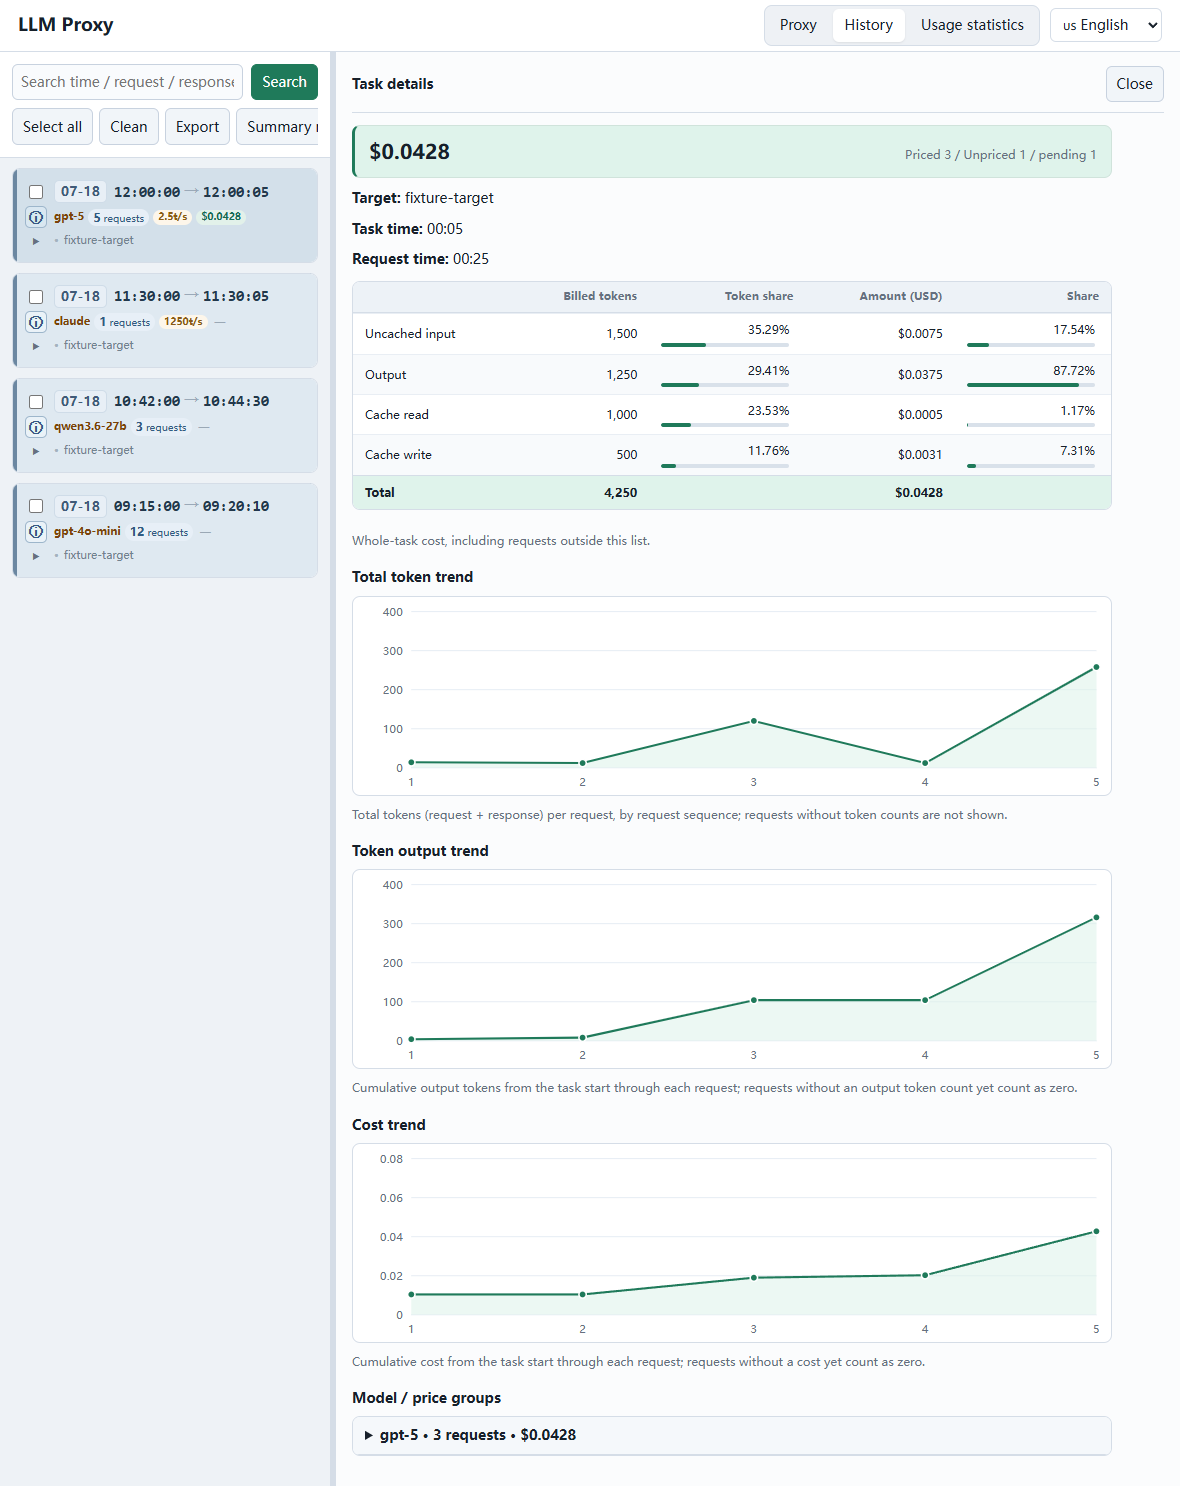
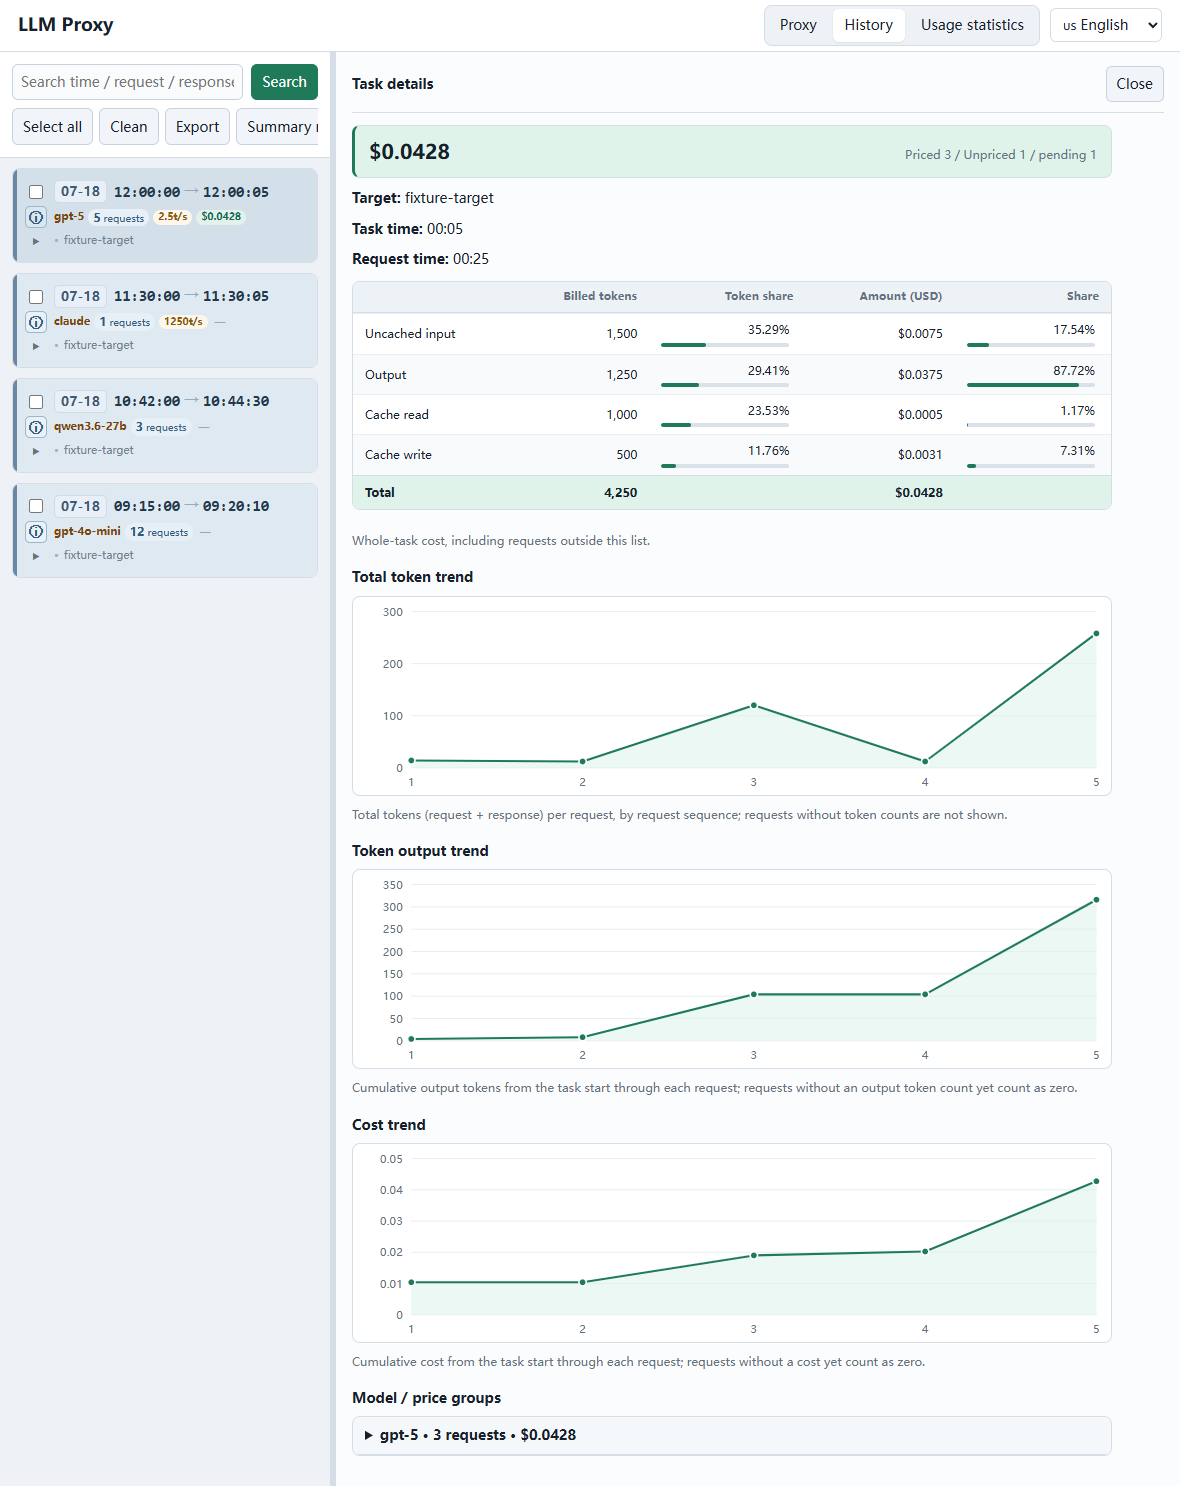
fix(ui): pick the tightest 1/2/5 y-axis scale for task-detail trend charts

diff --git a/src/admin/static/app.js b/src/admin/static/app.js
@@ -1612,6 +1612,30 @@ function taskBreakdownTableHtml(breakdown, totalAmount, price = null) {
     .join("");
   return `<div class="table-scroll"><table class="pricing-table task-breakdown"><thead><tr><th></th><th>${escapeHtml(t("tokensBilled"))}</th><th>${escapeHtml(t("tokenShare"))}</th>${priceHeader}<th>${escapeHtml(t("amountCny"))}</th><th>${escapeHtml(t("costShare"))}</th></tr></thead><tbody>${rows}</tbody><tfoot><tr><th>${escapeHtml(t("total"))}</th><td>${escapeHtml(formatIntegerValue(totalTokens))}</td><td></td>${price ? "<td></td>" : ""}<td>${escapeHtml(formatCurrencyAmount(totalAmount))}</td><td></td></tr></tfoot></table></div>`;
 }
+// Choose the y-axis step and maximum for the task-detail line charts: the
+// highest data point should sit close to the top gridline.  Among the 1/2/5
+// "nice" steps that leave 3 to 8 gridline intervals, pick the one with the
+// smallest resulting axis maximum (ties prefer the larger step).  A plain
+// "max / 4" round-up can jump to the next 1/2/5 tier (e.g. 8,400 -> 5,000)
+// and then force the axis to 4 steps (20,000), leaving the top of the chart
+// mostly empty.
+function niceAxisScale(maxValue) {
+  const max = Number(maxValue);
+  if (!Number.isFinite(max) || max <= 0) return { step: 1, axisMax: 4 };
+  let best = null;
+  const top = Math.floor(Math.log10(max));
+  for (let exponent = top - 2; exponent <= top + 1; exponent++) {
+    for (const factor of [1, 2, 5]) {
+      const step = factor * 10 ** exponent;
+      const intervals = Math.ceil(max / step - 1e-9);
+      if (intervals < 3 || intervals > 8) continue;
+      const axisMax = step * intervals;
+      if (!best || axisMax < best.axisMax || (axisMax === best.axisMax && step > best.step))
+        best = { step, axisMax };
+    }
+  }
+  return best ?? { step: 1, axisMax: Math.ceil(max) };
+}
 // Raw SVG line chart for the task-detail token trend: x = request sequence,
 // y = total tokens (request + response) of each finished request. Requests
 // whose token counts are still unknown are skipped, so the x positions can be
@@ -1634,19 +1658,7 @@ function taskTokenChartHtml(points) {
   const maxSequence = Math.max(...known.map((point) => Number(point.sequence)));
   const minSequence = Math.min(...known.map((point) => Number(point.sequence)));
   const maxTokens = Math.max(...known.map((point) => Number(point.total_tokens)));
-  // Round the axis maximum up to a nice step so gridline labels stay tidy.
-  const niceStep =
-    maxTokens <= 0
-      ? 1
-      : (() => {
-          const rough = maxTokens / 4;
-          const magnitude = 10 ** Math.floor(Math.log10(rough));
-          for (const factor of [1, 2, 5, 10]) {
-            if (rough <= factor * magnitude) return factor * magnitude;
-          }
-          return 10 * magnitude;
-        })();
-  const axisMax = Math.max(niceStep * 4, Math.ceil(maxTokens / niceStep) * niceStep);
+  const { step: niceStep, axisMax } = niceAxisScale(maxTokens);
   const xFor = (sequence) =>
     maxSequence === minSequence
       ? padLeft + plotWidth / 2
@@ -1728,18 +1740,7 @@ function taskCostChartHtml(points) {
   const maxSequence = Math.max(...known.map((point) => Number(point.sequence)));
   const minSequence = Math.min(...known.map((point) => Number(point.sequence)));
   const maxCost = Math.max(...known.map(valueFor));
-  const niceStep =
-    maxCost <= 0
-      ? 1
-      : (() => {
-          const rough = maxCost / 4;
-          const magnitude = 10 ** Math.floor(Math.log10(rough));
-          for (const factor of [1, 2, 5, 10]) {
-            if (rough <= factor * magnitude) return factor * magnitude;
-          }
-          return 10 * magnitude;
-        })();
-  const axisMax = Math.max(niceStep * 4, Math.ceil(maxCost / niceStep) * niceStep);
+  const { step: niceStep, axisMax } = niceAxisScale(maxCost);
   const xFor = (sequence) =>
     maxSequence === minSequence
       ? padLeft + plotWidth / 2
@@ -1810,18 +1811,7 @@ function taskOutputTokenChartHtml(points) {
   const maxSequence = Math.max(...known.map((point) => Number(point.sequence)));
   const minSequence = Math.min(...known.map((point) => Number(point.sequence)));
   const maxTokens = Math.max(...known.map((point) => Number(point.output_tokens)));
-  const niceStep =
-    maxTokens <= 0
-      ? 1
-      : (() => {
-          const rough = maxTokens / 4;
-          const magnitude = 10 ** Math.floor(Math.log10(rough));
-          for (const factor of [1, 2, 5, 10]) {
-            if (rough <= factor * magnitude) return factor * magnitude;
-          }
-          return 10 * magnitude;
-        })();
-  const axisMax = Math.max(niceStep * 4, Math.ceil(maxTokens / niceStep) * niceStep);
+  const { step: niceStep, axisMax } = niceAxisScale(maxTokens);
   const xFor = (sequence) =>
     maxSequence === minSequence
       ? padLeft + plotWidth / 2

diff --git a/docs/refactoring/ui-visual-baseline.md b/docs/refactoring/ui-visual-baseline.md
@@ -16,8 +16,8 @@
[7 lines of base64/hex data omitted]
 
 哈希复现命令：
 
@@ -81,7 +81,8 @@ sha256sum doc/ui_proxy_cn.png doc/ui_proxy_en.png doc/ui_logs_cn.png doc/ui_logs
 - 标题下为总费用高亮块（绿色左色条 + 浅绿底）：左侧大号总费用金额，右侧“已计价 X / 未计价 Y / 等待中 Z”计数。
 - 高亮块下按序为转发地址、任务总耗时（首请求到末请求结束的墙钟时间）与请求总耗时（各请求耗时之和）三行说明。
 - 中部为计费明细表：按“未缓存输入 / 输出 / 缓存读取 / 缓存写入”列出计费 tokens、token 占比、金额与费用占比（带占比条），末行为合计。
-- 表下为“Whole-task cost”提示文案，随后是“Token 总量趋势”折线图（SVG，x=请求序号，y=每请求 token 总量，一个点一个请求，点带悬停 title）及图下方说明。
+- 表下为“Whole-task cost”提示文案，随后是三张 SVG 折线图（x 均为请求序号，一个点一个请求，点带悬停 title），每图下方各有一行说明：Token 总量趋势（y=每请求 token 总量，无 token 数的请求不显示）、Token 输出趋势（y=自任务开始到每个请求为止的累计输出 token）、费用趋势（y=累计费用）。
+- 三张折线图的纵轴刻度取 1/2/5 的“整齐”步长，轴上限选为在 3–8 段网格内最接近最大值的刻度，使最高点贴近顶部网格线，避免图表上方出现大片空白。
 - 面板底部列出按计费模型分组的“价格分组”折叠卡片（模型 · 请求数 · 费用），默认折叠，展开后为对应明细表；手动展开/折叠状态按任务记忆，面板刷新后保持。
 - 面板内容宽度上限约 760px；中英文界面保持同一布局，金额单位分别使用 ¥ 与 $。
 
